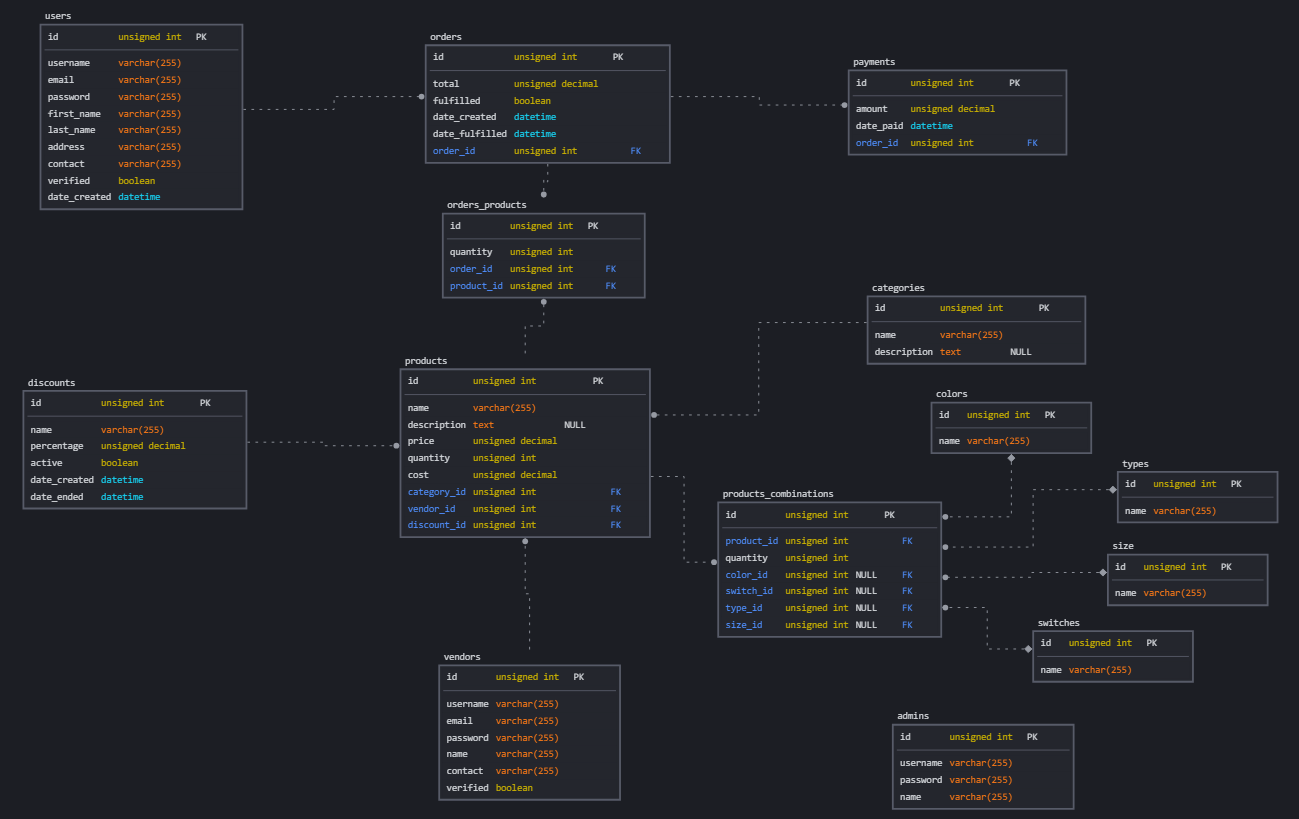
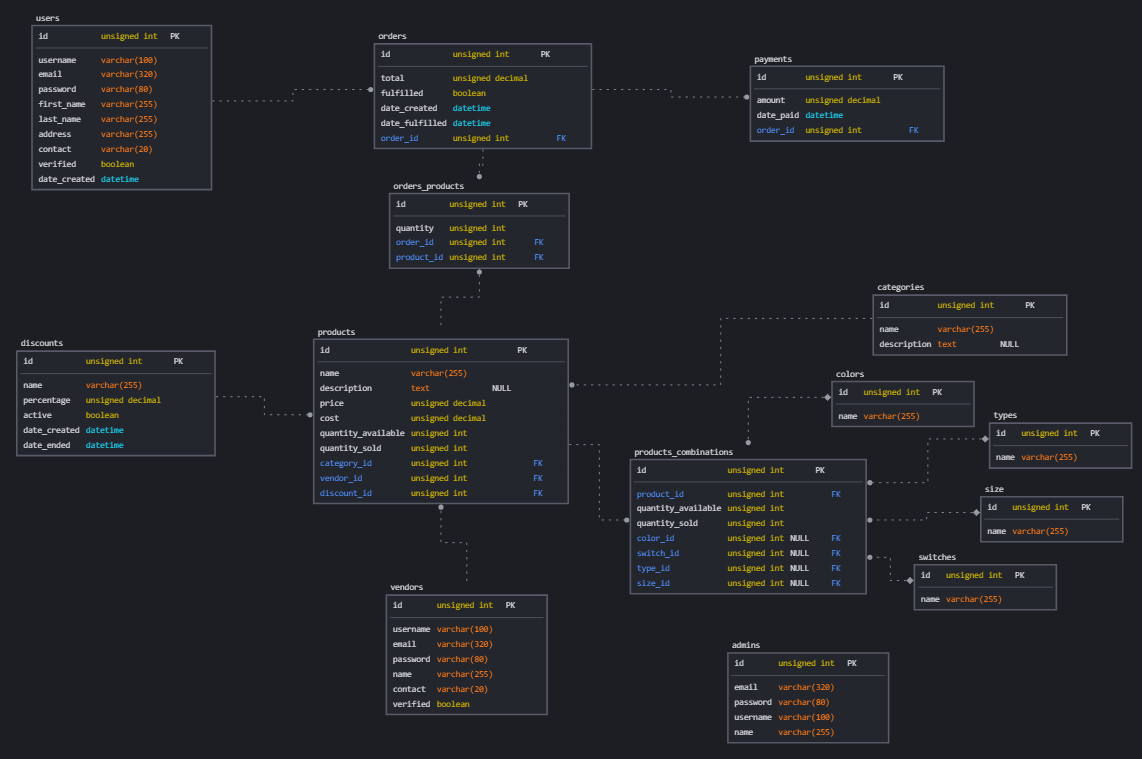
Very minor change to navbar, amended schema datatypes

diff --git a/src/components/general/Navbar.js b/src/components/general/Navbar.js
@@ -1,5 +1,5 @@
 import React from 'react';
-import { Search, Person, Cart3 } from 'react-bootstrap-icons';
+import { Search, Person, Cart3, List } from 'react-bootstrap-icons';
 import { Link } from 'react-router-dom';
 import { StyledNavbar } from '../styles/Navbar.styled';
 
@@ -8,6 +8,7 @@ export default function Navbar() {
     <>
       <StyledNavbar>
         <div id="navLeft">
+          <List/>
           <ul>
             <li><Link to="/">HOME</Link></li>
             <li><Link to="/shop">SHOP</Link></li>
@@ -16,7 +17,7 @@ export default function Navbar() {
           </ul>
         </div>
         <div id="navCenter">
-          <Link to="/"><h1>Capkeybara</h1></Link>
+          <Link to="/"><h1>capkeybara</h1></Link>
         </div>
         <div id="navRight">
           <ul>

diff --git a/src/components/styles/Navbar.styled.js b/src/components/styles/Navbar.styled.js
@@ -23,7 +23,8 @@ export const StyledNavbar = styled.nav`
   }
 
   #navLeft li {
-    margin: 0 auto;
+    display: flex;
+    margin: auto;
   }
 
   ul {
